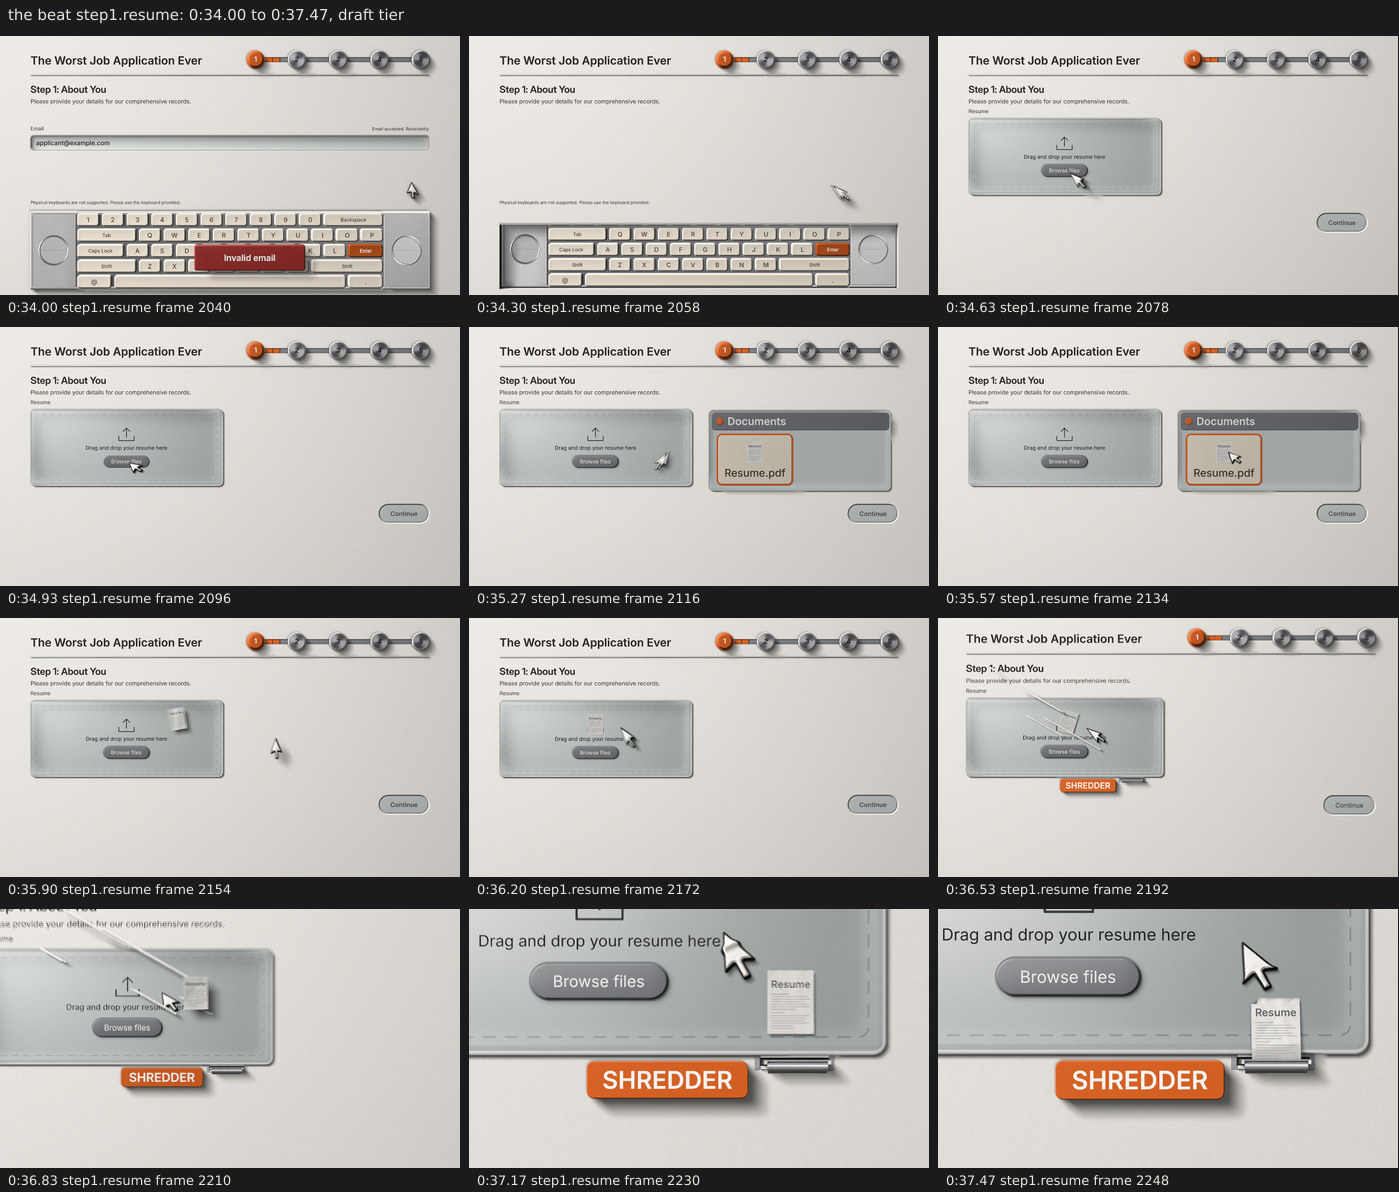
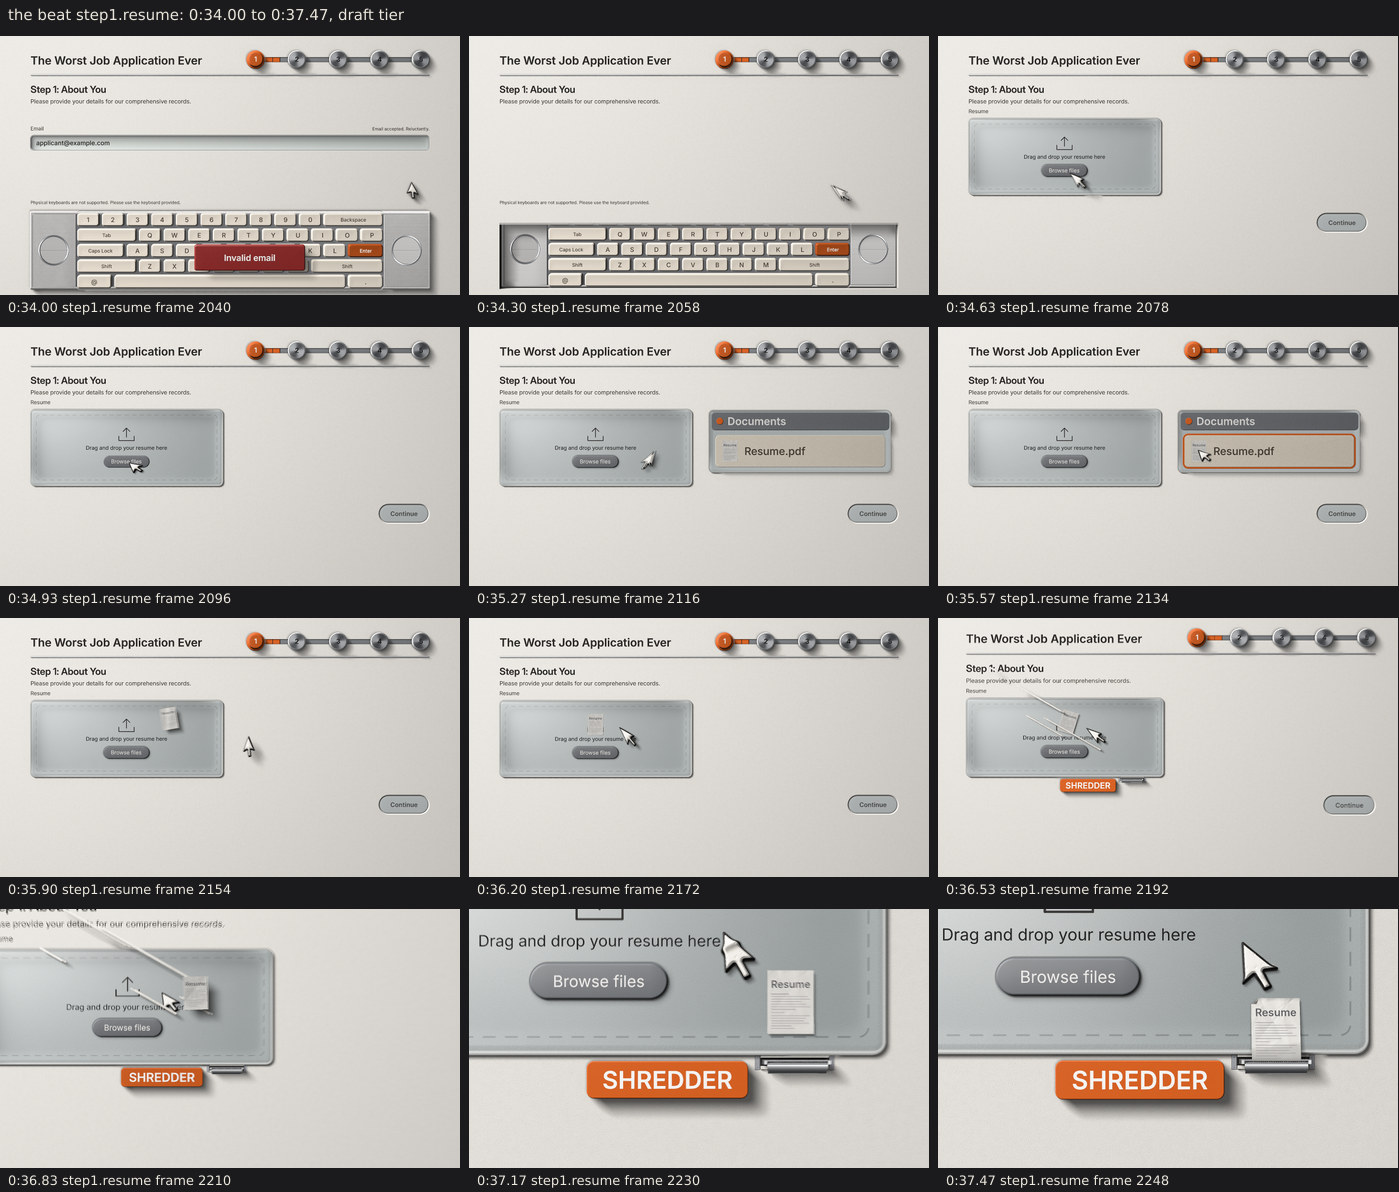
Resume: the file in the folder window is one row across it
The sheet at the left of the row, the name beside it on the sheet's
middle line, the ring round the whole row; the window 262 high. Both
words 32 px high, every event on its old step. Frames 2 and 3 and the
proof sheet of the beat made again; notes brought up to the runs.

diff --git a/src/pages/step1/resume/layout.ts b/src/pages/step1/resume/layout.ts
@@ -19,15 +19,15 @@ const ZONE_H = 3 * sizes.field + 2 * 48 + 34
 export const ZONE = { x: LEFT, y: HEADER.contentY + 36, w: COL_W, h: ZONE_H }
 export const FORM_BOTTOM = ZONE.y + ZONE.h
 export const PAPER = { w: 64, h: 88, inset: 5, top: 14, bar: 2 }
-// The folder window: a pane of glass that comes up out of the page on the bare half beside the drop zone, with a bar across its head, a knob on the bar, and one tile that holds the one file. `top` is how high the pane stands once it is up.
-export const WIN = { x: HALF_X + 12, y: ZONE.y + 4, w: 760, h: 338, r: 20, top: heights.card + 2 }
+// The folder window: a pane of glass that comes up out of the page on the bare half beside the drop zone, with a bar across its head, a knob on the bar, and one row across it that holds the one file, as a file list shows a file. `top` is how high the pane stands once it is up.
+export const WIN = { x: HALF_X + 12, y: ZONE.y + 4, w: 760, h: 262, r: 20, top: heights.card + 2 }
 export const BAR = { inset: 12, h: 72, up: 5, r: 14, knob: 28 }
-export const TILE = { x: WIN.x + 40, y: WIN.y + BAR.inset + BAR.h + 22, w: 304, h: 202, r: 16, up: 3, gap: 26 }
+export const TILE = { x: WIN.x + BAR.inset + 16, y: WIN.y + BAR.inset + BAR.h + 22, w: WIN.w - BAR.inset * 2 - 32, h: 132, r: 16, up: 3, pad: 28, gap: 28 }
 // The rim that lights round the tile under the arrow and when the file is picked: orange, this far outside the tile and this high.
 export const RING = { out: 7, up: 1.2 }
 // The sheet lies in the tile as the file's own picture, and comes down in the drop zone on its upload mark.
-export const PAPER_REST = { x: TILE.x + (TILE.w - PAPER.w) / 2, y: TILE.y + 26 }
-export const FILE_TYPE = { font: 'inter-500', px: 44, align: 'centre' as const }
+export const PAPER_REST = { x: TILE.x + TILE.pad, y: TILE.y + (TILE.h - PAPER.h) / 2 }
+export const FILE_TYPE = { font: 'inter-500', px: 44 }
 export const WIN_TYPE = { font: 'inter-600', px: 44 }
 export const PAPER_TITLE = { font: 'inter-600', px: 14 }
 export const PAPER_LINES = [0.36, 0.44, 0.52, 0.6, 0.7, 0.78, 0.86]
@@ -74,7 +74,7 @@ export function paperNodes(x: number, y: number): LayoutNode[] {
 // The spot where the sheet comes down in the drop zone: on the upload mark.
 export const landing = (): { x: number; y: number } => ({ x: ZONE.x + ZONE.w / 2 - PAPER.w / 2, y: promptTop() - GLYPH.gap - GLYPH.h - 20 })
 
-// The folder window, shown in the layout state `folder`: the pane, its bar with a knob and the folder's name, the tile and the file's name under where the sheet lies.
+// The folder window, shown in the layout state `folder`: the pane, its bar with a knob and the folder's name, the row with the sheet at its left and the file's name beside it.
 export function folderNode(): LayoutNode {
   const bar = { x: WIN.x + BAR.inset, y: WIN.y + BAR.inset, w: WIN.w - BAR.inset * 2, h: BAR.h }
   const barTop = WIN.top + BAR.up
@@ -82,7 +82,7 @@ export function folderNode(): LayoutNode {
   const title = text('resume-folder-title', 'copy:drafts.step1.resume.folderTitle', WIN_TYPE, bar.x + 20 + BAR.knob + 18, bar.y + (bar.h - cap(WIN_TYPE.font, WIN_TYPE.px)) / 2, { part: 'type', on: barTop, tone: 'inkLight' })
   const head = node('resume-folder-bar', 'windowBar', [bar.x, bar.y, bar.w, bar.h], { part: 'shell', r: BAR.r, floor: WIN.top, height: barTop, tone: 'metal', children: [knob, title] })
   const tileTop = WIN.top + TILE.up
-  const name = text('resume-file-name', 'copy:drafts.step1.resume.fileName', FILE_TYPE, TILE.x + TILE.w / 2, PAPER_REST.y + PAPER.h + TILE.gap, { part: 'type', on: tileTop })
+  const name = text('resume-file-name', 'copy:drafts.step1.resume.fileName', FILE_TYPE, PAPER_REST.x + PAPER.w + TILE.gap, PAPER_REST.y + (PAPER.h - cap(FILE_TYPE.font, FILE_TYPE.px)) / 2, { part: 'type', on: tileTop })
   const tile = node('resume-file', 'fileTile', [TILE.x, TILE.y, TILE.w, TILE.h], { part: 'shell', r: TILE.r, floor: WIN.top, height: tileTop, tone: 'raised', children: [name] })
   return node('resume-folder', 'card', [WIN.x, WIN.y, WIN.w, WIN.h], { part: 'shell', r: WIN.r, height: WIN.top, over: true, states: ['folder'], children: [head, tile] })
 }

diff --git a/src/pages/step1/resume/script.ts b/src/pages/step1/resume/script.ts
@@ -36,7 +36,7 @@ export const AFTER = { look: 3.35, up: [3.05, 2.45] as [number, number], under: 
 // The film before the bite, every time a second of the unit: a wind-up where it stands, a strut to Browse files, a look at the ordinary field, the press; a start at the folder, a walk to the file, the pick; proud, it struts back to stand by its sheet in the drop zone and dusts itself off; the wind makes it start and it runs after the sheet. `drop` is the second the wind lets the sheet go over the slot.
 export const RESUME = {
   leave: 19.9, walk: [20.1, 20.6] as [number, number], on: { x: 12, y: 6 }, press: 20.85,
-  see: 20.97, toFile: [21.06, 21.36] as [number, number], file: { x: 12, y: 0 }, pick: 21.5,
+  see: 20.97, toFile: [21.06, 21.36] as [number, number], file: { x: -8, y: -4 }, pick: 21.5,
   proud: 21.66, back: [21.76, 22.16] as [number, number], beside: { x: 58, y: 66 }, dust: 22.2,
   gust: 22.36, chase: [22.58, 23.02] as [number, number], near: { x: -96, y: -176 },
   raise: 0, high: 0, drop: 21.62 + LATE
@@ -91,7 +91,7 @@ export function planResume(w: Writer): { drop: number; bite: number; lost: numbe
   const land = landing()
   const chip = browseBox()
   const browse = { x: chip.x + chip.w / 2 + RESUME.on.x, y: chip.y + chip.h / 2 + RESUME.on.y }
-  const file = { x: TILE.x + TILE.w / 2 + RESUME.file.x, y: PAPER_REST.y + PAPER.h / 2 + RESUME.file.y }
+  const file = { x: PAPER_REST.x + PAPER.w / 2 + RESUME.file.x, y: PAPER_REST.y + PAPER.h / 2 + RESUME.file.y }
   w.cue(RESUME.leave, { react: 'anticipate' })
   w.cue(RESUME.leave + 0.02, { act: 'confident' })
   w.to(RESUME.walk[0], RESUME.walk[1], browse.x, browse.y, { arc: -34 })

diff --git a/src/pages/step1/resume/index.ts b/src/pages/step1/resume/index.ts
@@ -797,7 +797,7 @@ export function makeResume(host: ResumeHost): ResumeStage {
         const flow = pace()
         if (s.phase === 'idle' || f.at === 'field') return { x: chip.x + chip.w / 2, y: chip.y + chip.h / 2, down: s.phase === 'resume' && blink }
         if (f.at === 'press') return { x: chip.x + chip.w / 2, y: chip.y + chip.h / 2, down: false }
-        if (f.at === 'folder') return { x: TILE.x + TILE.w / 2, y: PAPER_REST.y + PAPER.h / 2, down: f.t >= flow.pop && blink }
+        if (f.at === 'folder') return { x: PAPER_REST.x + PAPER.w / 2 - 8, y: PAPER_REST.y + PAPER.h / 2 - 4, down: f.t >= flow.pop && blink }
         return { x: stand.x, y: stand.y, down: false }
       }
       if (s.phase === 'tug') return { x: SLOT.cx - 90, y: SLOT.cy - 260, down: false }

diff --git a/pipeline/change002/resume.md b/pipeline/change002/resume.md
@@ -8,7 +8,7 @@ The user's sequence, in the film and on the live site:
 
 1. The Resume field looks ordinary: the drop zone with its prompt and the Browse files chip, nothing else. (STATED)
 2. The arrow presses Browse files: the chip goes down. Event `browse-press`. (MEASURED, tests/b-resume.test.ts)
-3. A folder window comes up out of the page beside the drop zone: a small frosted window of this world with a brushed bar, an orange knob, the title "Documents" and one file tile with the sheet and the name "Resume.pdf". Event `folder-open`. The arrow picks the file: the tile goes down and an orange ring lights round it. Event `file-pick`. (MEASURED for the events; the look is seen on proof/resume/film-beat-step1_resume.jpg)
+3. A folder window comes up out of the page beside the drop zone: a small frosted window of this world with a brushed bar, an orange knob, the title "Documents" and one file row, the sheet at its left and the name "Resume.pdf" beside it. Event `folder-open`. The arrow picks the file: the row goes down and an orange ring lights round it. Event `file-pick`. (MEASURED for the events; the look is seen on proof/resume/film-beat-step1_resume.jpg)
 4. The sheet leaves the folder (event `paper-slide`, the old name kept), flies in a low arc into the drop zone and lies there (event `slot-in`); the folder window sinks back into the page. (MEASURED for the events)
 5. Wind catches it: streaks cross the drop zone, the sheet shivers, lifts, swings and is carried to the slot under the drop zone (event `wind-gust`). The machine comes up as the wind starts, with an orange plastic plate beside the slot that says "SHREDDER" (34 px type on the page; it is the largest word in the tug frame). (MEASURED for the event; the plate is seen on proof/resume/film-beat-step1_tug.jpg)
 6. The slot takes the sheet (0.4 s, as before) and only then `shredder` and `arms-out` fire and the tug of war runs. The tug's curve, its cues, its loss, the strips and the mend are the old code, untouched. (STATED: no line of the tug, the loss or the strips was changed; see "What is off" for what the first half second of the tug shows)
@@ -34,11 +34,13 @@ All from `content/copy-drafts.json`, none added, no file under `content/` edited
 
 | Word | Key | Stands on | Box of the words | Shown |
 | --- | --- | --- | --- | --- |
-| "Documents" | `copy.drafts.step1.resume.folderTitle` | the brushed bar of the folder window (bar x 1012, y 358, 736 by 72; window x 1000, y 346, 760 by 338, on the bare page right of the drop zone, 54 px over Continue) | x 1078, y 378, 243 by 32 | from `folder-open` until the window sinks, 20.96 to 21.87 s in the film |
-| "Resume.pdf" | `copy.drafts.step1.resume.fileName` | the file tile in the folder window (tile x 1040, y 452, 304 by 202), under the small sheet | x 1065, y 592, 253 by 32 | with the window |
+| "Documents" | `copy.drafts.step1.resume.folderTitle` | the brushed bar of the folder window (bar x 1012, y 358, 736 by 72; window x 1000, y 346, 760 by 262, on the bare page right of the drop zone, 130 px over Continue) | x 1078, y 378, 243 by 32 | from `folder-open` until the window sinks, 20.96 to 21.87 s in the film |
+| "Resume.pdf" | `copy.drafts.step1.resume.fileName` | the file row in the folder window (row x 1028, y 452, 704 by 132; the sheet x 1056, y 474, 64 by 88), right of the sheet on its middle line, y 518 | x 1148, y 502, 253 by 32 | with the window |
 | "SHREDDER" | `copy.drafts.step1.resume.shredderLabel` | the orange plate on the bare page left of the slot (plate x 511, y 672, 226 by 52) | x 533, y 686, 182 by 25 | from the wind until the machine sinks after the message |
 
 The folder window was made larger, not longer, by the Builder's word of 23:19Z: 760 px wide where it was 500, its two words 32 px high where they were 19 and 17 (type 44 px), the tile 304 by 202; the seconds are the same. I chose the larger window over a nearer camera because the live site has no camera, and the film's camera would have had to go in and out again inside 0.9 s before its one move to the tug. The sheet in the tile keeps its real size, 64 by 88, so it is small beside its name. (MEASURED for the boxes, STATED for the reason)
+
+By the Builder's word of 23:31Z the tile is now one row across the window, as a file list shows a file: 704 wide inside the 736 of the bar, the sheet at its left, the name to its right on the sheet's middle line, the orange ring round the whole row (x 1021, y 445, 718 by 146). The window is 262 high where it was 338, since the name no longer stands under the sheet. Both words are 32 px high as before and every event is on the step it was on. The sheet that is picked is the sheet that flies: one box, 64 by 88, no scale. I set the row beside the tile in my own frames 2 and 3 and keep the row: the glass right of the tile is gone and the name is read in one line with its sheet. In the film the arrow's tip stands on the sheet, 8 px left of its middle and 4 px over it, so that it does not cover the name. (MEASURED for the boxes and the events; STATED for the judgment)
 
 Words that were there before and are unchanged: "Resume", "Drag and drop your resume here", "Browse files", "Resume" on the sheet, "Resume received. Please re-enter all information manually."
 
@@ -94,10 +96,10 @@ The film's tug against the old one, frame by frame from `arms-out` for 271 frame
 ### The live site (MEASURED by tests/b-resume-visitors.test.ts: 200 seeded visitors, keen until the stage, then 165 clumsy, 10 idle, 25 wandering)
 
 - 200 of 200 get through to "Resume received" without a skip: 165 of 165 clumsy, 10 of 10 idle, 25 of 25 wandering.
-- Clumsy visitors: stage begun to Browse pressed, least 0.66, middle 1.40, most 2.88 s; folder up to file picked, least 0.74, middle 1.50, most 2.86 s.
-- All visitors: Browse pressed to folder up 0.12 s; file picked to the sheet leaving 0.22 s; flight 0.55 s; lying in the drop zone 0.50 s; wind and catch 1.36 s (wind 0.95, catch 0.4); bite to the tug lost 8.02 to 8.62 s; tug lost to the message 3.42 to 3.43 s. Stage begun to the message: least 16.43, middle 18.04, most 34.65 s. An idle visitor is taken through at the film's pace once the skip link is up (20 s).
-- The longest the arrow is held from a visitor: 4.24 s (limit 8). The page takes the arrow at the wind, moves it to the place the old take started from, and gives it back 0.55 s before the bite; the tug then takes it as before. The page's own hold in the wind is 0.80 s; the 4.24 s is the tug's, as before this work.
-- The visitor presses Browse files himself (a press on the chip, 26 px of slack, or anywhere in the drop zone) and picks the file himself (the tile, 26 px of slack). The stage's skip still works at any beat.
+- Clumsy visitors: stage begun to Browse pressed, least 0.66, middle 1.40, most 2.88 s; folder up to file picked, least 0.74, middle 1.45, most 2.52 s.
+- All visitors: Browse pressed to folder up 0.12 s; file picked to the sheet leaving 0.22 s; flight 0.55 s; lying in the drop zone 0.50 s; wind and catch 1.36 s (wind 0.95, catch 0.4); bite to the tug lost 8.02 to 8.62 s; tug lost to the message 3.42 to 3.43 s. Stage begun to the message: least 16.36, middle 17.83, most 34.65 s. An idle visitor is taken through at the film's pace once the skip link is up (20 s).
+- The longest the arrow is held from a visitor: 4.24 s (limit 8). The page takes the arrow at the wind, moves it to the place the old take started from, and gives it back 0.55 s before the bite; the tug then takes it as before. The page's own hold in the wind is 0.80 s (STATED: the wind's 0.95 s less its last 0.15 s, since the arrow is given back 0.55 s before the bite and the catch is 0.4 s). The 4.24 s is the tug's (MEASURED); whether the old stage held the arrow for the same 4.24 s I did not measure (UNKNOWN).
+- The visitor presses Browse files himself (a press on the chip, 26 px of slack, or anywhere in the drop zone) and picks the file himself (the row, 704 by 132, 26 px of slack). The stage's skip still works at any beat.
 
 UNKNOWN: how the stage plays under a real finger on a touch screen; the tests press with the stepped pointer only. The touch page's rules are the stage's own as before (a press lands where the arrow is).
 
@@ -143,13 +145,13 @@ What each stands in or on (MEASURED from the draw list, page px):
 
 ## Outside tests that are red (not edited)
 
-With the config patch applied and origin/main merged in, the whole suite gives 32 failed, 2147 passed, 35 skipped of 2214 in 193 files (MEASURED at 23:41Z, on the tree of the commit that holds this line). `npm run determinism`: pass, 12 pictures identical across two fresh loads and two orders (MEASURED at 23:29Z, before the last change, which touches the live site only). `npm run bots`: all 20 runs finish (keen and clumsy with no skip, 36 of 37 gags), one problem named: keen never reaches the gag step1.lastName, which config/showcase.json lists and no file under src/ holds since a5508ada (MEASURED at 23:36Z; not this stage's). `npx tsc --noEmit -p .`: clean.
+With the config patch applied and origin/main merged in, the whole suite gives 31 failed, 2148 passed, 35 skipped of 2214 in 193 files (MEASURED at 23:55Z, on the tree of the commit that holds this line, the file as one row; at 23:41Z, with the tile, it was 32 failed). `npm run determinism`: pass, 12 pictures identical across two fresh loads and two orders (MEASURED at 23:50Z, on the same tree). `npm run bots`: all 20 runs finish (keen and clumsy with no skip, 36 of 37 gags), one problem named: keen never reaches the gag step1.lastName, which config/showcase.json lists and no file under src/ holds since a5508ada (MEASURED at 23:36Z, with the tile, not run again with the row; not this stage's: the Builder says at 23:55Z that the gag goes at the merge). `npx tsc --noEmit -p .`: clean.
 
 Red before this work, at a5508ada (MEASURED, 6 tests): tests/b-shell-chrome.test.ts (1), tests/b-shell-fields.test.ts (2), tests/pack-site.test.ts R4 (1), tests/polish-hand.test.ts turn 1 (1), tests/site-finish.test.ts "a keen hand through this driver finishes as the keen bot does" (1: 36 gags against 37; the keen bot reaches all three of the stage's gags). tests/cut-of-build.test.ts (2) is red on branches until the Builder runs the cut (STATED by the brief).
 
 Red by the unit's growth to 37.5 s, green without the config patch (MEASURED, 5 tests): tests/film-cut.test.ts "matches cut/CUTLIST.json in its frame counts" (9510 frames against 9180), tests/pack-hit.test.ts "gives the machine its own sheets" (frame 4350 against 4158), tests/polish-sharp-shadow.test.ts "had the shadow on in the film while the ball was in the tube" (frames 4595, 4866 against 4265, 4536), tests/polish-turn2.test.ts "turns five pages by the clock" (13.5, 51, 72, 114, 146 s against 13.5, 45.5, 66.5, 108.5, 140.5) and "holds every value of the stage equal to before".
 
-Red by this stage (MEASURED, 19 tests; the reason is STATED from reading each test unless a number is given):
+Red by this stage (MEASURED, 18 tests; the reason is STATED from reading each test unless a number is given):
 
 - tests/step1-script.test.ts "keeps the cursor, the hands and the slot well inside the frame all through the tug": counts the tug's steps up to a fixed second; 882 counted, more than 1080 asked. Pins the old seconds.
 - tests/step1-script.test.ts "empties the form a field at a time before it says the resume was received": reads up to 31 s; the form is empty at 31.5 s now. Pins the old seconds.
@@ -165,4 +167,4 @@ Red by this stage (MEASURED, 19 tests; the reason is STATED from reading each te
 - tests/polish-keys2.test.ts "holds the same events at the same frames in the film": 284 events against 268; the new events and the later frames.
 - tests/polish-tug3.test.ts "the arrow in the tug of the film is as it was": a sum over the frames' numbers and poses; the frames are 90 later and the first 24 differ as measured above.
 - tests/polish-tug3.test.ts "moves no event of the tug", "turns no more than the named degrees in a frame ...: visitor" and "...: keen"; tests/polish-tug2.test.ts "the page takes the arrow from the visitor: hauls the arrow in fastest in the first frames and ends with a stop": the live take, item 1 of "What is off".
-- tests/polish-tug-strips.test.ts "the film of step 1: each is fed down from the mouth's lower lip at an even pace": 8.27 px against 8, item 3 of "What is off". The same test for "the live site, bot clumsy": 8.61 px against 8; it was green until the folder window grew, which moved the moment the clumsy bot is shredded. (MEASURED for the numbers; STATED for the cause)
+- tests/polish-tug-strips.test.ts "the film of step 1: each is fed down from the mouth's lower lip at an even pace": 8.27 px against 8, item 3 of "What is off". The same test for "the live site, bot clumsy" is green again with the file as one row; with the large tile it was 8.61 px against 8. It goes red and green with the moment the clumsy bot picks the file, which moves the moment it is shredded. (MEASURED for the numbers; STATED for the cause)
